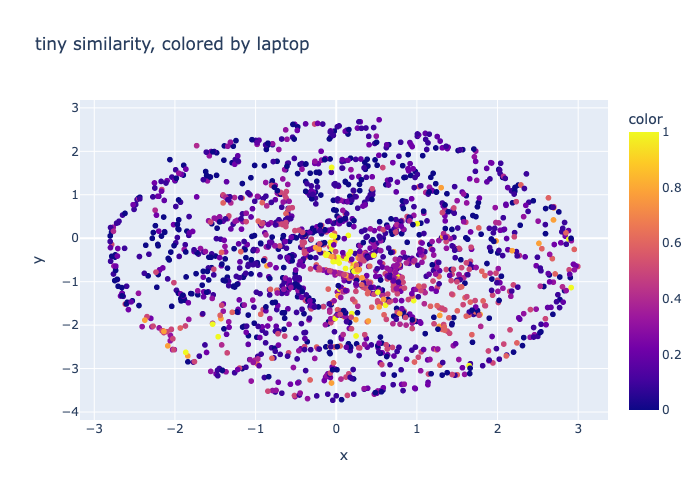
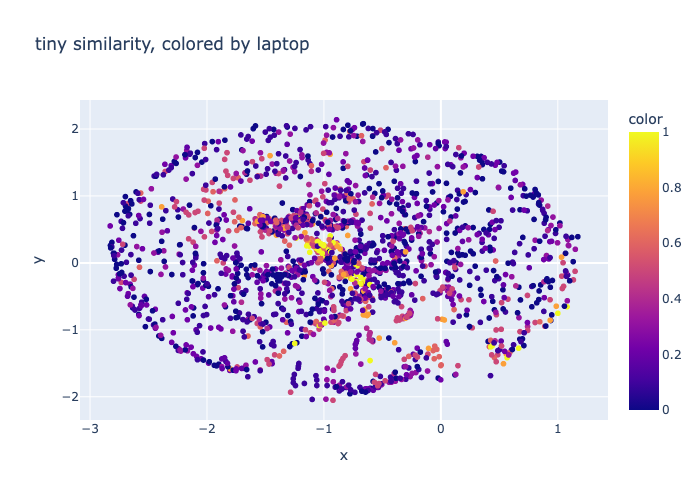
stacked bars automatically plotted with query eval

diff --git a/experiments/005-sirl-tversky/src/eval.py b/experiments/005-sirl-tversky/src/eval.py
@@ -9,10 +9,16 @@ from sklearn.linear_model import LinearRegression
 from tversky_utils import retrieve_semantic_expression
 from sklearn.manifold import TSNE
 import plotly.express as px
+from plotly.subplots import make_subplots
 # from encoders import *
 
 # raw feature columns in data["features"], in order (matches make_tversky_report.py)
 FEATURE_NAMES = ["laptop (computer_dist)", "upright (joint_up)"]
+
+# stacked-bar segment colors, bottom -> top: the two "not both nonempty" greys, then a
+# blue ramp for the nested significance bands (see plot_query_stacked_bars).
+BASE_COLORS = ["#e0e0e0", "#9e9e9e"]
+SIG_COLORS  = ["#cfe1f2", "#7fb8de", "#3a8bc7", "#1b4f8a"]
 
 
 def eval_model(config, data, model):
@@ -341,7 +347,63 @@ def eval_queries(config, data, model, eval_params=None, train_config=None, save_
         fb, iv = bank_feature_and_instances(bank_label)
         results[bank_label] = eval_one_bank(fb, iv)
 
+    results_dir = Path("results") / config["experiment_name"]
+    out_path = plot_query_stacked_bars(results, config["experiment_name"], alphas, results_dir)
+    print(f"stacked bars saved to {out_path}")
+
     return results
+
+
+def plot_query_stacked_bars(results, expt_name, alphas, results_dir):
+    """Stacked bars of the query eval, one subplot column per Tversky bank.
+
+    Adapted from 003-tversky-methods-all-eval/src/plot_stacked_bars.py: that script
+    sweeps a hyperparameter on the x axis and sums over seeds, whereas here we have a
+    single run, so the x axis is the feature instead.
+
+    Each bar stacks (bottom -> top):
+      neither nonempty : n_nonempty_hist[0]
+      one nonempty     : n_nonempty_hist[1]
+      then n_nonempty_hist[2] (== what the t-test ran on) split by NESTED significance
+      into incremental bands: both/n.s. | p<0.05 | p<0.01 | p<0.001  (sum == hist[2])
+    """
+    # alphas nest from loosest to strictest, so each band is the difference of counts
+    alphas_desc = sorted(alphas, reverse=True)
+    labels = ["neither nonempty", "one nonempty", "both, n.s."]
+    labels += [f"both, p<{a}" for a in alphas_desc]
+    colors = BASE_COLORS + [SIG_COLORS[i % len(SIG_COLORS)] for i in range(len(alphas_desc) + 1)]
+
+    def segments(fd):
+        h, s = fd["n_nonempty_hist"], fd["n_significant"]
+        counts = [s.get(a, 0) for a in alphas_desc]
+        # h[2] - loosest, then loosest - next, ..., strictest
+        bands = [h.get(2, 0) - (counts[0] if counts else 0)]
+        bands += [counts[i] - counts[i + 1] for i in range(len(counts) - 1)]
+        if counts:
+            bands.append(counts[-1])
+        return [h.get(0, 0), h.get(1, 0), *bands]
+
+    banks = list(results)
+    fig = make_subplots(rows=1, cols=len(banks), shared_yaxes=True,
+                        column_titles=banks, horizontal_spacing=0.07)
+    first = True                       # legend once, across the whole grid
+    for ci, bank in enumerate(banks, 1):
+        feats = list(results[bank])
+        rows = [segments(results[bank][f]) for f in feats]
+        for si, (label, color) in enumerate(zip(labels, colors)):
+            fig.add_bar(x=feats, y=[r[si] for r in rows], name=label, marker_color=color,
+                        legendgroup=label, showlegend=first, row=1, col=ci)
+        first = False
+    fig.update_layout(barmode="stack", template="plotly_white", bargap=0.28,
+                      title=f"{expt_name}: nonempty + significance by feature",
+                      legend_title_text="pair category")
+    fig.update_xaxes(type="category")
+    fig.update_yaxes(title_text="# pairs", col=1)
+
+    results_dir.mkdir(parents=True, exist_ok=True)
+    out_path = results_dir / f"{expt_name}_query_stacked_bars.png"
+    fig.write_image(out_path)
+    return out_path
 
 
 def tversky_sim_tsne(config, data, model):

diff --git a/experiments/005-sirl-tversky/src/ljts_triplet.py b/experiments/005-sirl-tversky/src/ljts_triplet.py
@@ -42,6 +42,16 @@ class LiterallyJustTverskySim(nn.Module):
     def similarity(self, a, b):
         return self.tversky_sim(a,b)
 
+    def distance(self, a, b):
+        """
+        NOTE made to work with Tversky Similarity params:
+        similarity_model: ratio 
+        normalize:True
+
+        so that Tversky Similarity values are always between 0 and 1.
+        """
+        return 1 - self.similarity(a,b)
+
     def save_model(self, path):
         """Save state_dict + constructor hparams so load_model can reconstruct exactly."""
         torch.save({
@@ -99,10 +109,11 @@ def train_triplet_tversky_sim(
         idx = torch.as_tensor(idx, device=device)
         a, p, n = A[idx], P[idx], N[idx]
 
-        if symmetric:
-            loss = symmetric_triplet_loss(model, a, p, n, margin)
-        else:
-            loss = asymmetric_triplet_loss(model, a, p, n, margin)
+        # if symmetric:
+        #     loss = symmetric_triplet_loss(model, a, p, n, margin)
+        # else:
+        #     loss = asymmetric_triplet_loss(model, a, p, n, margin)
+        loss = new_triplet_loss(model, a, p, n, margin)
 
         optimizer.zero_grad()
         loss.backward()
@@ -203,6 +214,23 @@ def asymmetric_triplet_loss(model, anchor, pos, neg, margin=1.0):
     loss_ap = _margin_ranking_loss(model.similarity(anchor, pos),
                                    model.similarity(anchor, neg), margin)
     return loss_ap
+
+
+def new_triplet_loss(model, anchor, pos, neg, margin=0.1):
+    """
+    NOTE made to work with Tversky Similarity params:
+    similarity_model: ratio 
+    normalize:True
+
+    so that Tversky Similarity values are always between 0 and 1.
+    """
+    loss_fn = nn.TripletMarginWithDistanceLoss(
+        distance_function=model.distance, 
+        margin=margin, 
+        reduction='mean',
+        # swap=True # hard-negative mining uses min(d(a,n), d(p,n)) as the signal: https://bmva-archive.org.uk/bmvc/2016/papers/paper119/paper119.pdf
+    )
+    return loss_fn(anchor, pos, neg)
 
 
 def load_tversky_sim(path, device=None):
